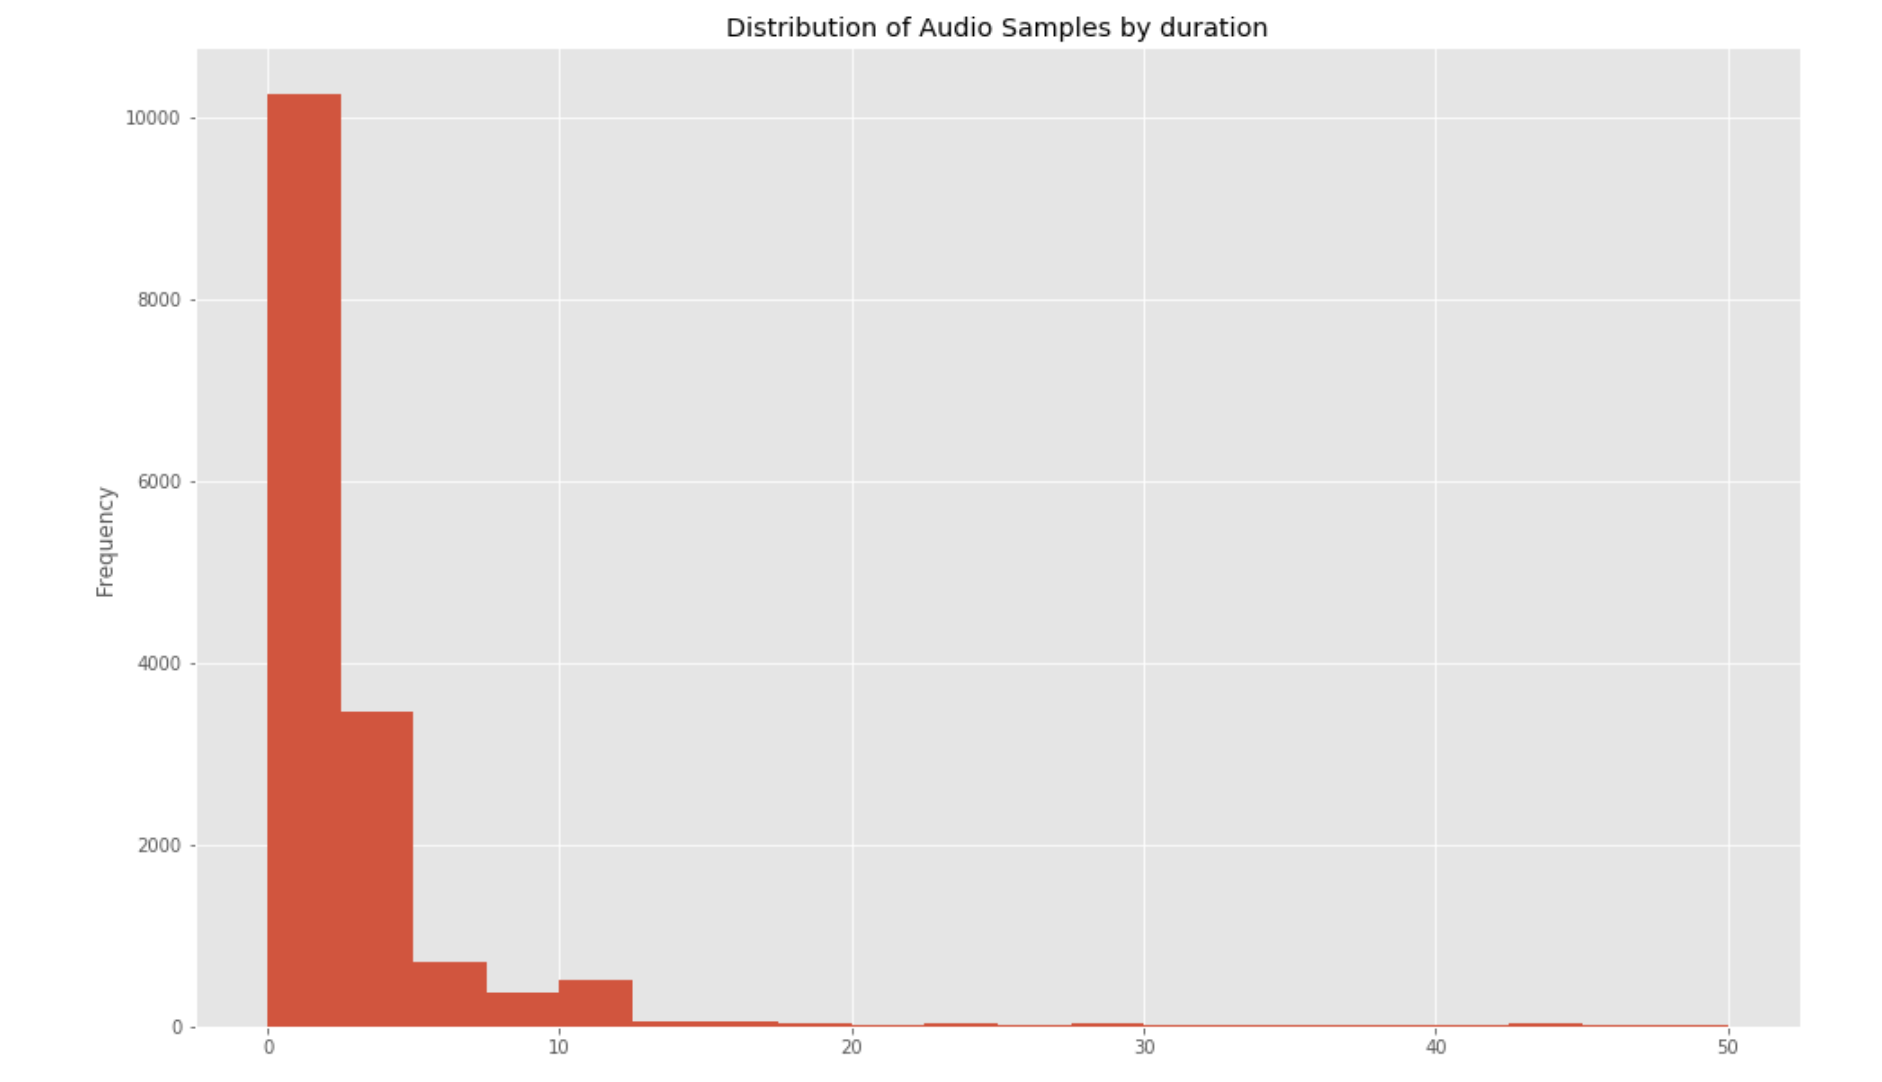
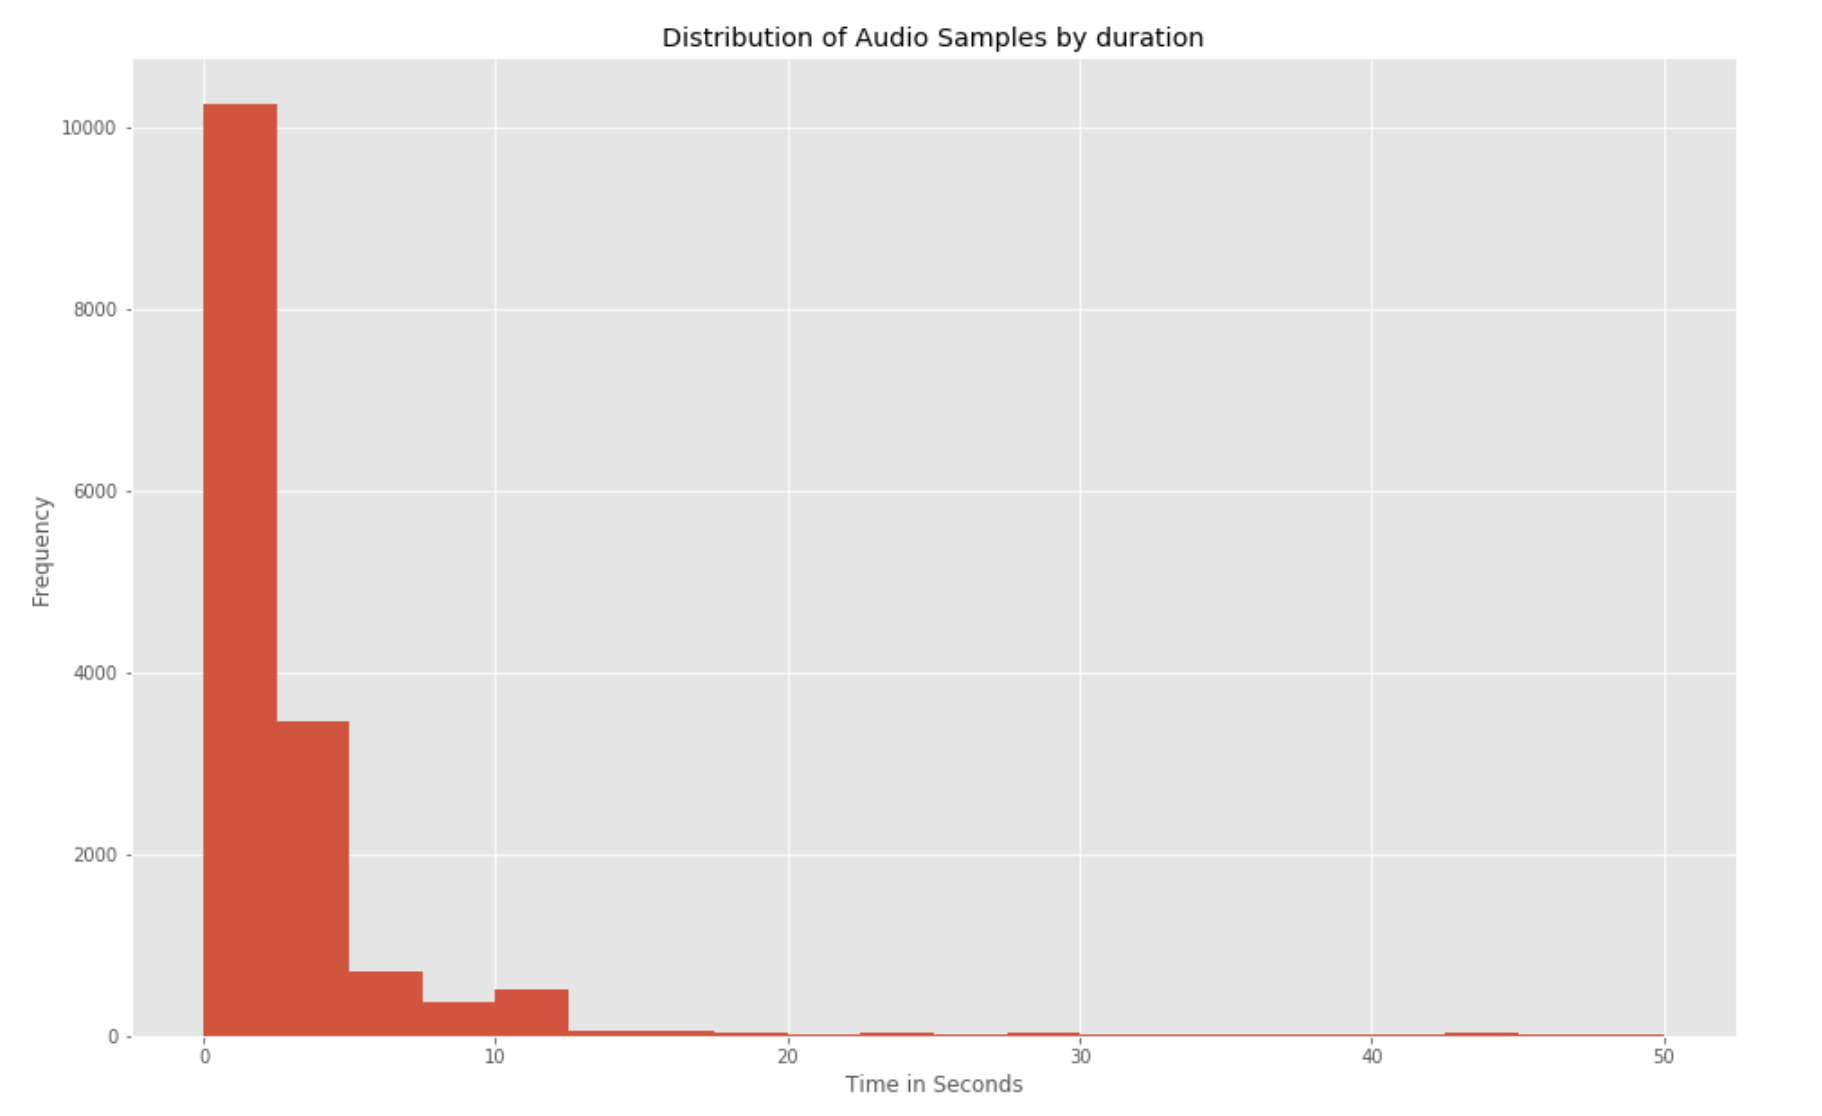
Adding Source attributions, Adding x-axis description for historgram

Changed region(s): [[0.0, 0.0, 0.9528, 0.976]]

diff --git a/final_report.md b/final_report.md
@@ -157,6 +157,7 @@ Audio signals are typically represented by a 1D vector comprising of a time seri
 
 ![Sample Audio Signal](images/SampleAudioWave.png)
 
+Source: [*kaggle Beginner Guide to Audio*](https://www.kaggle.com/fizzbuzz/beginner-s-guide-to-audio-data)
 - **Bit Depth** - Range of amplitude values that can be represented. For example a 16 bit bit depth implies that 2^16 (=65536) different values can be represented
 - **Sampling Rate** - Number of times the audio is sampled per second. A sampling rate of 44.1KHz implies that 44100 samples of the audio amplitude are recorded per second.
 
@@ -169,17 +170,20 @@ Machine Learning techniques have been successfully employed for classifying Audi
 ### MEL Spectrogram
 
 Mel Frequency Cepstral Coefficents (MFCCs) are a feature widely used in automatic speech and speaker recognition. They were introduced by Davis and Mermelstein in the 1980's, and have been state-of-the-art ever since.
-The Mel Spectrogram attempts to model the characteristics of the human ear. It is observed that the human ear acts as a filter and concentrates only on certain frequency components and also gives more importance to lower frequency components as compared to higher frequency compnents. The Mel Spectrogram is constructed using Filter Banks each of which focus on a selected frequency range. The Image below shows an illustration of the Filter Banks.
+The Mel Spectrogram attempts to model the characteristics of the human ear. It is observed that the human ear acts as a filter and concentrates only on certain frequency components and also gives more importance to lower frequency components as compared to higher frequency components. The Mel Spectrogram is constructed using Filter Banks each of which focus on a selected frequency range. The Image below shows an illustration of the Filter Banks.
 
 ![Example of a MEL Filter Bank](images/MelFilterBank.png)
+
+Source: [*Aalto University Wiki*](https://wiki.aalto.fi/display/ITSP/Cepstrum+and+MFCC)
 
 Each of the filters focus on a frequency range. As can be seen the filters are more concentrated in the lower frequency range and get sparse at the higher frequency range.
 
 The flow used to convert the Audio signal to the Mel Spectrogram is illustrated below. More details of the process can be found in this [excellent tutorial](https://archive.org/details/SpectrogramCepstrumAndMel-frequency_636522) from CMU.
 
 ![Audio file to Mel Spectrogram Conversion](images/AudioToMel.png)
+[*Adapted from CMU slides*](https://archive.org/details/SpectrogramCepstrumAndMel-frequency_636522)
 
-The below diagrams illustrate the audio signal and their mel spectrogram for some samples from our dataset
+The below diagrams illustrate the audio signal and their Mel spectrogram for some samples from our dataset
 
 - Killer Whale - Sample Audio/Mel Features
 
@@ -209,7 +213,7 @@ After instantiating the model with Google's pretrained weights, we apply a dista
 
 Specifically VGGish is a variant of the 11 weight-layer version of VGG (model "A" in the original paper), with the following changes:
 
-1. Input size was changed to 96x64 for consistency with log mel spectrogram inputs.
+1. Input size was changed to 96x64 for consistency with log Mel spectrogram inputs.
 2. The last group of convolutional and max pool layers are dropped, leaving this model with only 4 groups instead of 5 in the original model.
 3. The final 1000-wide fully-connected layer is replaced with a 128-wide fully-connected layer.  (Note that the model we developed and trained does not incorporate this layer; we only use the pre-bottleneck layers of VGGish.)
 
